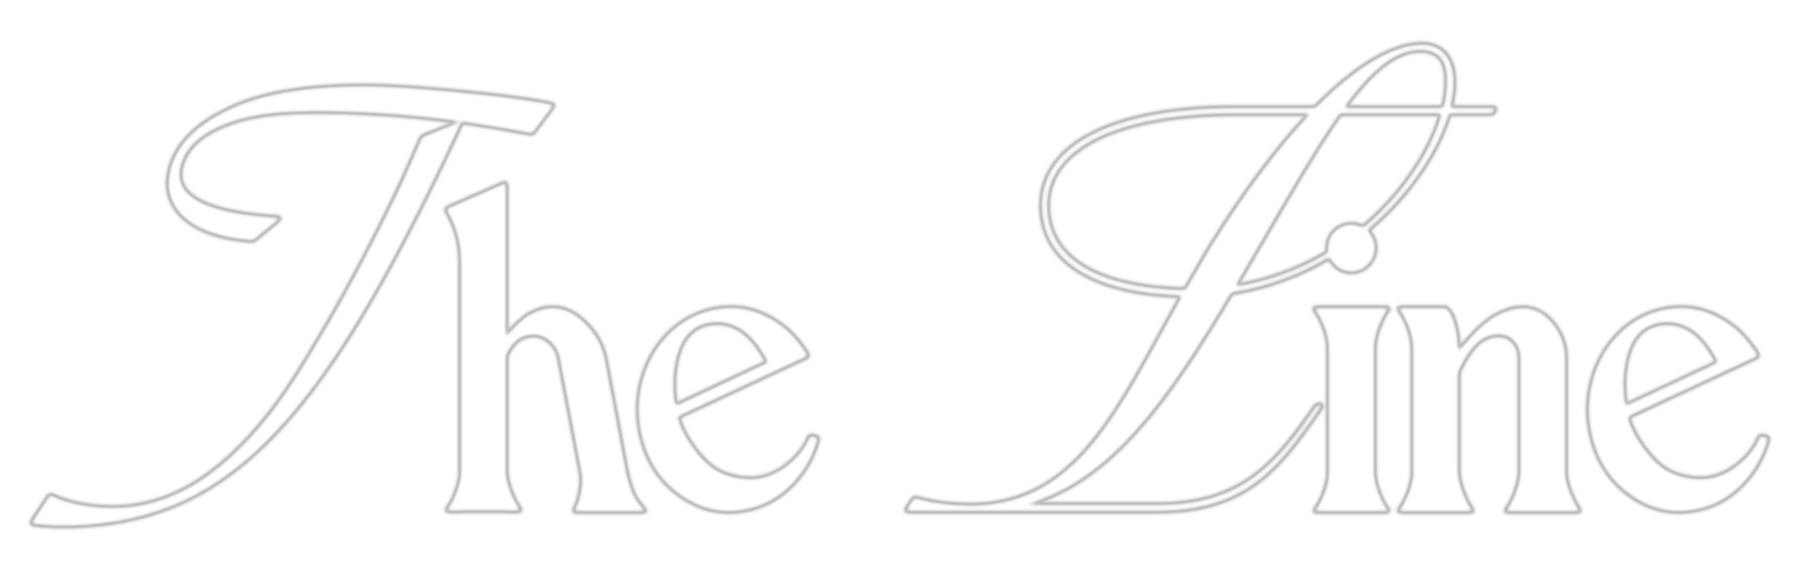
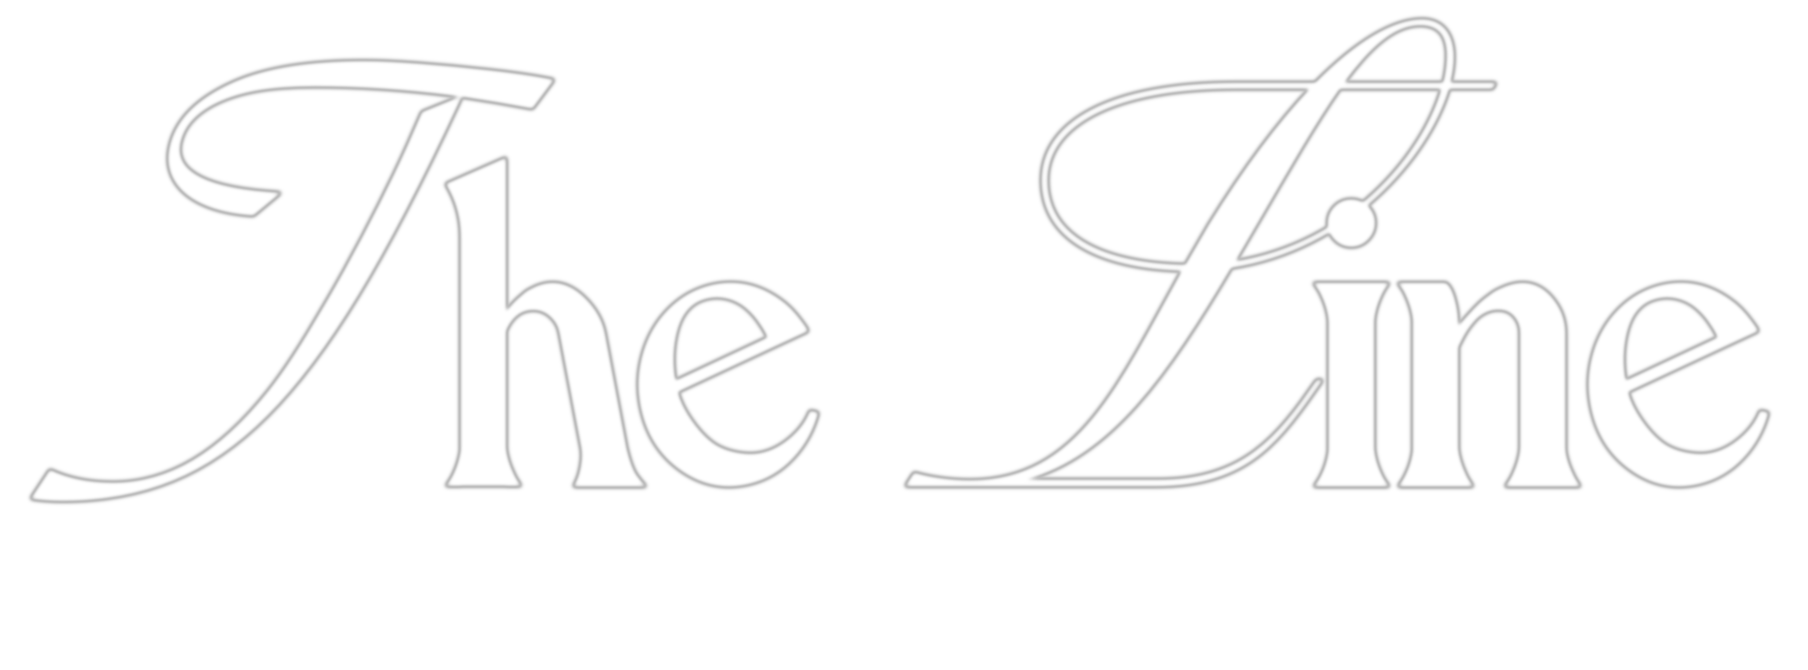
Size the orbiting wordmarks by height, not width
Sizing by width made every title span the same arc, so a long one had to
shrink its letters to fit — "This Feeling" came out noticeably smaller
than "The Line". The height is now the constant and each width follows
from the artwork's own proportions, so a longer title simply runs
further around the lap at the same lettering size.

That only holds while the artwork measures the same way, and these two
did not: "The Line" has no descenders and less ascender reach, so at a
matched box height its letters were still about a fifth larger. Both
PNGs are padded onto a shared em box instead — same x-height as a share
of the canvas, baseline the same fraction down it. No artwork is scaled
or cropped, so the only change is transparent space.

"This Feeling" also becomes the one-line setting of the same artwork.

diff --git a/scripts/index.js b/scripts/index.js
@@ -313,8 +313,18 @@ const FISHEYE = {
   radius: 577, // in photo pixels
 };
 const ORBIT_SECONDS = 26;
-/* Wordmark width as a share of the circle's diameter. */
-const ORBIT_SIZE = 0.26;
+/* Wordmark height as a share of the circle's diameter. Height rather than
+   width, so every song's artwork is drawn at the same lettering size and only
+   the width changes with the length of the title — sizing by width would have
+   shrunk a long title's letters to fit the same span.
+
+   That holds only while the artwork measures the same way, so each wordmark's
+   PNG is padded to a shared em box: the same x-height as a share of the canvas,
+   with the baseline the same fraction down it. A new song's artwork has to be
+   padded to match before it will sit right next to the others — the letters
+   would otherwise come out larger or smaller at the same box height, and sit
+   high or low on the path. */
+const ORBIT_HEIGHT = 0.082;
 /* How far out the wordmark travels, as a share of the circle's radius — 1 puts
    it centred on the rim, less pulls it in towards the middle. */
 const ORBIT_REACH = 0.85;
@@ -439,28 +449,28 @@ function orbitSongs() {
       y: viewH / 2 + (FISHEYE.centerY - 0.5) * FISHEYE.height * scale,
       radius: circleRadius * ORBIT_REACH,
     };
-    // Sized against the circle rather than the orbit, so pulling the path in
-    // does not also shrink the wordmarks.
-    const width = circleRadius * 2 * ORBIT_SIZE;
+    /* Sized against the circle rather than the orbit, so pulling the path in
+       does not also shrink the wordmarks. The height is what the constant
+       fixes; each song's width follows from its own artwork's proportions, so
+       a longer title simply runs further around the lap at the same lettering
+       size. */
+    const height = circleRadius * 2 * ORBIT_HEIGHT;
+
+    songs.forEach((song) => {
+      // Until the browser knows the artwork's proportions there is no width to
+      // derive; the `load` listener below brings us back here.
+      if (!song.$image.naturalWidth) return;
+      song.width =
+        (height * song.$image.naturalWidth) / song.$image.naturalHeight;
+      song.$orbiter.style.width = `${song.width}px`;
+    });
 
     /* On a narrow viewport `cover` blows the photo up until the circle is wider
        than the screen, and a path drawn on its rim would carry a wordmark off
        the edge. They straddle the path, so what has to stay inside is the path
        plus half the artwork's height — clamp the radius to the nearest edge
-       less that margin. The tallest wordmark sets the margin: they all ride the
-       same ring, which is what keeps them evenly spaced. */
-    let tallest = 0;
-    songs.forEach((song) => {
-      song.width = width;
-      song.$orbiter.style.width = `${width}px`;
-      if (song.$image.naturalWidth) {
-        tallest = Math.max(
-          tallest,
-          (width * song.$image.naturalHeight) / song.$image.naturalWidth
-        );
-      }
-    });
-    const margin = tallest / 2 + ORBIT_EDGE_GAP;
+       less that margin. One height covers every song now that they share it. */
+    const margin = height / 2 + ORBIT_EDGE_GAP;
     const room = Math.min(orbit.x, viewW - orbit.x, orbit.y, viewH - orbit.y);
     orbit.radius = Math.min(orbit.radius, Math.max(room - margin, 0));
 
